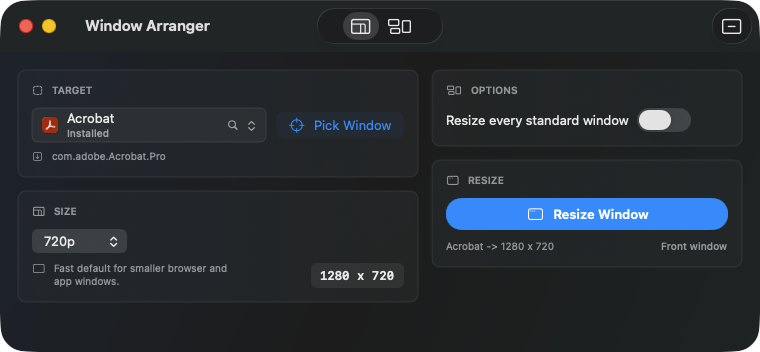
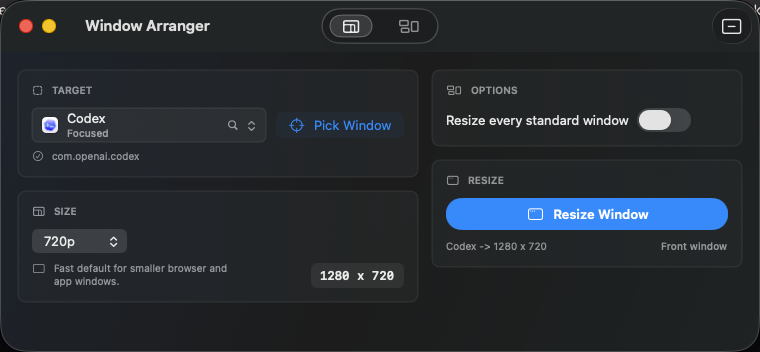
Refine mode switcher animation

diff --git a/source/Views/ContentView.swift b/source/Views/ContentView.swift
@@ -34,7 +34,7 @@ struct ContentView: View {
         .toolbar {
             ToolbarItem(placement: .principal) {
                 WorkflowModePicker(store: store)
-                    .frame(width: 126)
+                    .frame(width: 116)
             }
 
             ToolbarItem {
@@ -82,20 +82,77 @@ private struct WorkflowModePicker: View {
     @State private var visualMode: WindowWorkflowMode?
     @State private var pendingMode: WindowWorkflowMode?
 
-    private let pillTransitionDuration: TimeInterval = 0.22
+    private let pillTransitionDuration: TimeInterval = 0.36
+    private let pillAnimation: Animation = .spring(response: 0.36, dampingFraction: 0.88, blendDuration: 0.06)
+    private let modes = WindowWorkflowMode.allCases
 
     var body: some View {
-        Picker("Mode", selection: visualWorkflowModeBinding) {
-            ForEach(WindowWorkflowMode.allCases) { mode in
-                Image(systemName: mode.symbolName)
-                    .tag(mode)
-                    .help(mode.title)
-                    .accessibilityLabel(mode.title)
+        GeometryReader { proxy in
+            let mode = visualMode ?? store.workflowMode
+            let segmentWidth = proxy.size.width / CGFloat(max(modes.count, 1))
+            let selectedIndex = CGFloat(index(of: mode))
+            let indicatorWidth = min(42, max(segmentWidth - 16, 0))
+            let indicatorHeight = max(proxy.size.height - 12, 0)
+            let indicatorX = (selectedIndex * segmentWidth) + ((segmentWidth - indicatorWidth) / 2)
+
+            ZStack(alignment: .leading) {
+                Capsule()
+                    .fill(Color.clear)
+
+                Capsule()
+                    .fill(.ultraThinMaterial)
+                    .frame(width: indicatorWidth, height: indicatorHeight)
+                    .overlay(
+                        Capsule()
+                            .fill(Color.white.opacity(0.10))
+                    )
+                    .overlay(
+                        Capsule()
+                            .stroke(Color.white.opacity(0.38), lineWidth: 0.8)
+                    )
+                    .shadow(color: Color.black.opacity(0.10), radius: 3, x: 0, y: 1)
+                    .offset(x: indicatorX)
+                    .animation(pillAnimation, value: selectedIndex)
+
+                HStack(spacing: 0) {
+                    ForEach(modes) { pickerMode in
+                        Button {
+                            guard !isInteractionDisabled else {
+                                return
+                            }
+
+                            requestMode(pickerMode)
+                        } label: {
+                            Image(systemName: pickerMode.symbolName)
+                                .font(.system(size: 14, weight: .semibold))
+                                .frame(width: segmentWidth, height: proxy.size.height)
+                                .foregroundStyle(mode == pickerMode ? .primary : .secondary)
+                                .contentShape(Rectangle())
+                        }
+                        .buttonStyle(.plain)
+                        .background(Color.clear)
+                        .help(pickerMode.title)
+                        .accessibilityLabel(pickerMode.title)
+                        .accessibilityAddTraits(.isButton)
+                        .simultaneousGesture(
+                            TapGesture().onEnded {
+                                guard !isInteractionDisabled else {
+                                    return
+                                }
+
+                                requestMode(pickerMode)
+                            }
+                        )
+                    }
+                }
             }
+            .overlay(
+                Capsule()
+                    .stroke(Color.secondary.opacity(0.30), lineWidth: 1)
+            )
         }
-        .pickerStyle(.segmented)
-        .labelsHidden()
-        .disabled(store.isExecuting || store.isPickingWindow || pendingMode != nil)
+        .frame(height: 34)
+        .opacity(store.isExecuting || store.isPickingWindow ? 0.58 : 1)
         .onAppear {
             visualMode = store.workflowMode
         }
@@ -108,44 +165,48 @@ private struct WorkflowModePicker: View {
         }
     }
 
-    private var visualWorkflowModeBinding: Binding<WindowWorkflowMode> {
-        Binding(
-            get: {
-                visualMode ?? store.workflowMode
-            },
-            set: { newMode in
-                let currentMode = visualMode ?? store.workflowMode
+    private var isInteractionDisabled: Bool {
+        store.isExecuting || store.isPickingWindow || pendingMode != nil
+    }
 
-                guard newMode != currentMode, pendingMode == nil else {
-                    return
-                }
+    private func requestMode(_ newMode: WindowWorkflowMode) {
+        let currentMode = visualMode ?? store.workflowMode
 
-                visualMode = newMode
-                pendingMode = newMode
+        guard newMode != currentMode, pendingMode == nil else {
+            return
+        }
 
-                DispatchQueue.main.asyncAfter(deadline: .now() + pillTransitionDuration) {
-                    guard pendingMode == newMode else {
-                        return
-                    }
+        pendingMode = newMode
 
-                    guard let appDelegate = AppDelegate.shared else {
-                        store.workflowMode = newMode
-                        pendingMode = nil
-                        return
-                    }
+        withAnimation(pillAnimation) {
+            visualMode = newMode
+        }
 
-                    appDelegate.fitMainWindowToContentSize(
-                        newMode.contentSize,
-                        prepareContent: {
-                            store.workflowMode = newMode
-                        },
-                        completion: {
-                            pendingMode = nil
-                        }
-                    )
-                }
+        DispatchQueue.main.asyncAfter(deadline: .now() + pillTransitionDuration) {
+            guard pendingMode == newMode else {
+                return
             }
-        )
+
+            guard let appDelegate = AppDelegate.shared else {
+                store.workflowMode = newMode
+                pendingMode = nil
+                return
+            }
+
+            appDelegate.fitMainWindowToContentSize(
+                newMode.contentSize,
+                prepareContent: {
+                    store.workflowMode = newMode
+                },
+                completion: {
+                    pendingMode = nil
+                }
+            )
+        }
+    }
+
+    private func index(of mode: WindowWorkflowMode) -> Int {
+        modes.firstIndex(of: mode) ?? 0
     }
 }
 